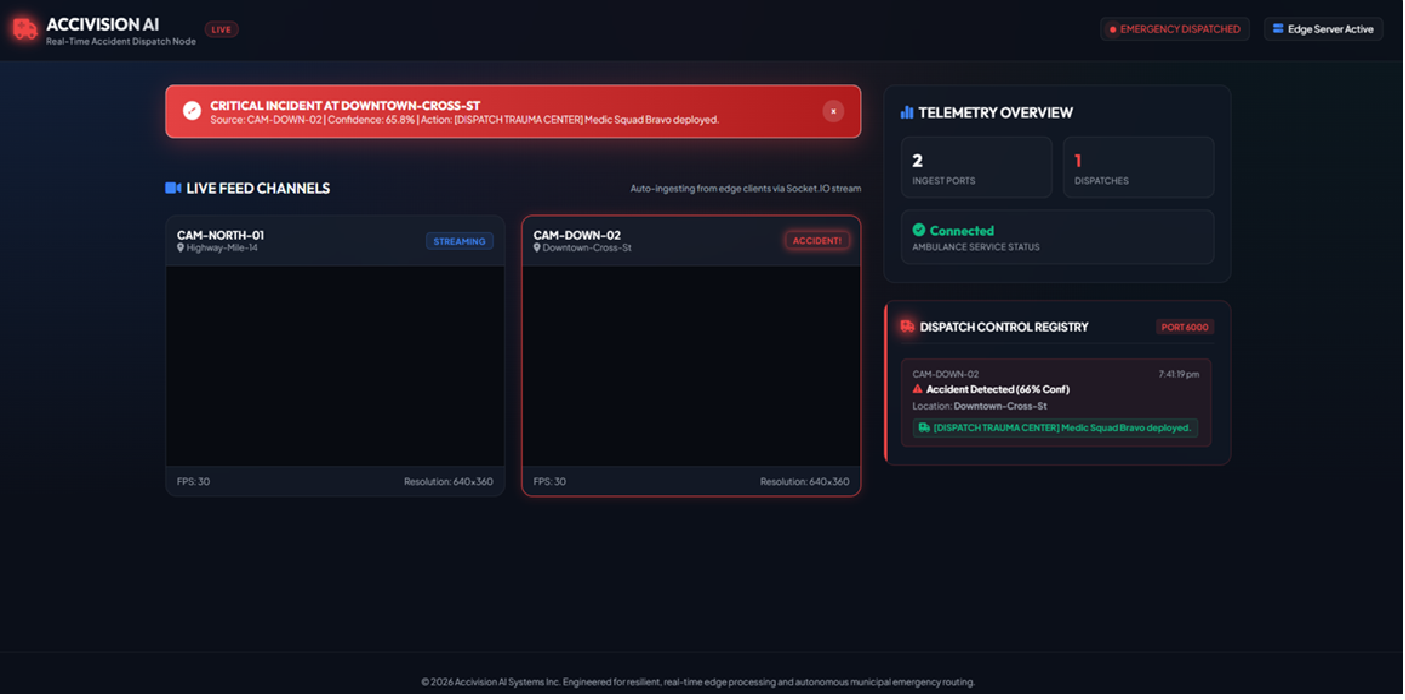
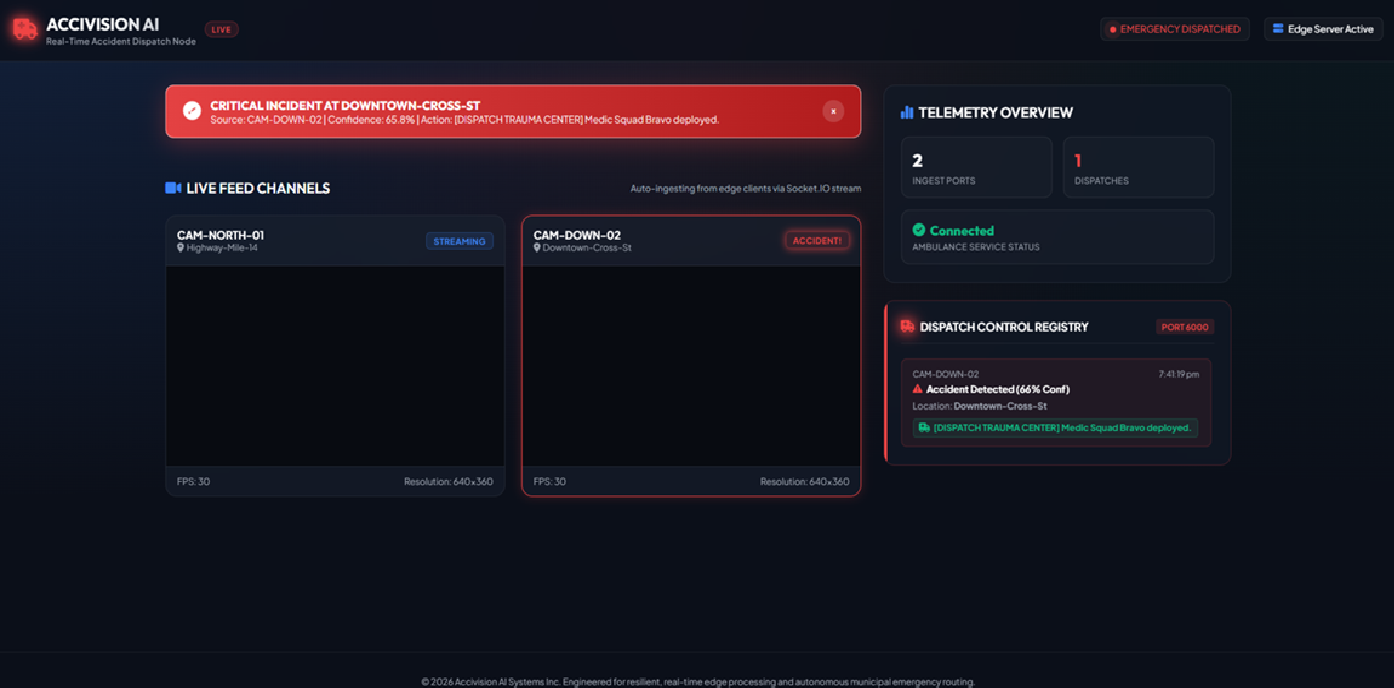
Complete

diff --git a/app.py b/app.py
@@ -4,7 +4,6 @@ import atexit
 import collections
 from datetime import datetime
 
-# Disable PyTorch/OpenMP multithreading BEFORE importing compiled packages.
 os.environ["OMP_NUM_THREADS"] = "1"
 os.environ["MKL_NUM_THREADS"] = "1"
 
@@ -21,7 +20,6 @@ from ultralytics import YOLO
 app = Flask(__name__)
 socketio = SocketIO(app, cors_allowed_origins="*", async_mode='threading')
 
-# Cache model globally
 MODEL_PATH = os.path.join('NEXUS-AI-FRAMEWORK', 'best.pt')
 if os.path.exists(MODEL_PATH):
     print(f"[SERVER] Loaded custom accident model: {MODEL_PATH}")
@@ -40,7 +38,7 @@ POST_RECORD_SECONDS = 180  # 3 Minutes AFTER accident
 MAX_PRE_FRAMES = int(PRE_RECORD_SECONDS * DVR_FPS)
 POST_FRAMES_TARGET = int(POST_RECORD_SECONDS * DVR_FPS)
 
-# Advanced thread-safe state for each camera
+
 CAMERA_STATES = {}
 CAMERA_STATES_LOCK = threading.Lock()
 
@@ -123,7 +121,7 @@ def index():
                     if dispatched:
                         total_dispatches += 1
                         
-                    # Let's gather all dispatches/emergencies to show in the UI list
+                    
                     detections = row.get('detections_summary', '')
                     is_emergency = any(x in detections for x in ['accident', 'fire'])
                     if dispatched or is_emergency:
@@ -138,7 +136,7 @@ def index():
         except Exception as e:
             print(f"[SERVER ERROR] Failed to read predictions log for index: {e}")
             
-    # Show the latest alerts first in the log list
+    
     historical_alerts.reverse()
     
     return render_template("index.html", 
@@ -195,7 +193,7 @@ def inference_worker():
                         cls = int(box.cls[0])
                         detected_classes.append(model.names.get(cls, f"class_{cls}"))
                         
-                        if cls in [0, 2]: # Custom Accident/Fire classes
+                        if cls in [0, 2]: # Accident/Fire classes
                             accident_detected = True
                             highest_conf = max(highest_conf, conf)
                     annotated_frame = r.plot()
@@ -213,12 +211,10 @@ def inference_worker():
                     
                     cam_state = CAMERA_STATES[cctv_id]
                     
-                    # Always append to the rolling history (Max 3 mins)
                     cam_state["pre_buffer"].append(annotated_frame)
                     
                     if accident_detected:
                         if cam_state["post_counter"] == 0:
-                            # 🚨 NEW EVENT: Open Writer & Dump History
                             os.makedirs('output_recordings', exist_ok=True)
                             timestamp = datetime.now().strftime("%Y%m%d_%H%M%S")
                             video_path = os.path.join('output_recordings', f"{cctv_id}_event_{timestamp}.avi")
@@ -229,23 +225,18 @@ def inference_worker():
                             
                             print(f"[DVR] 🚨 Accident! Dumping past {len(cam_state['pre_buffer'])} frames to disk...")
                             
-                            # Write all 3 minutes of historical context to file
                             for f in cam_state["pre_buffer"]:
                                 cam_state["writer"].write(f)
                         else:
-                            # Already recording an event, just write current frame
                             cam_state["writer"].write(annotated_frame)
                             
-                        # Reset the countdown timer to a full 3 minutes
                         cam_state["post_counter"] = POST_FRAMES_TARGET
                         
                     else:
-                        # No accident right now, but are we still recording the aftermath?
                         if cam_state["post_counter"] > 0:
                             cam_state["writer"].write(annotated_frame)
                             cam_state["post_counter"] -= 1
                             
-                            # If aftermath countdown hits 0, finish the video
                             if cam_state["post_counter"] <= 0:
                                 print(f"[DVR] ✅ Event clip finished for {cctv_id}.")
                                 cam_state["writer"].release()
@@ -253,7 +244,6 @@ def inference_worker():
 
                 # ==========================================
                 
-                # Logs & Web Streaming Logic
                 if detected_classes:
                     from collections import Counter
                     counts = Counter(detected_classes)